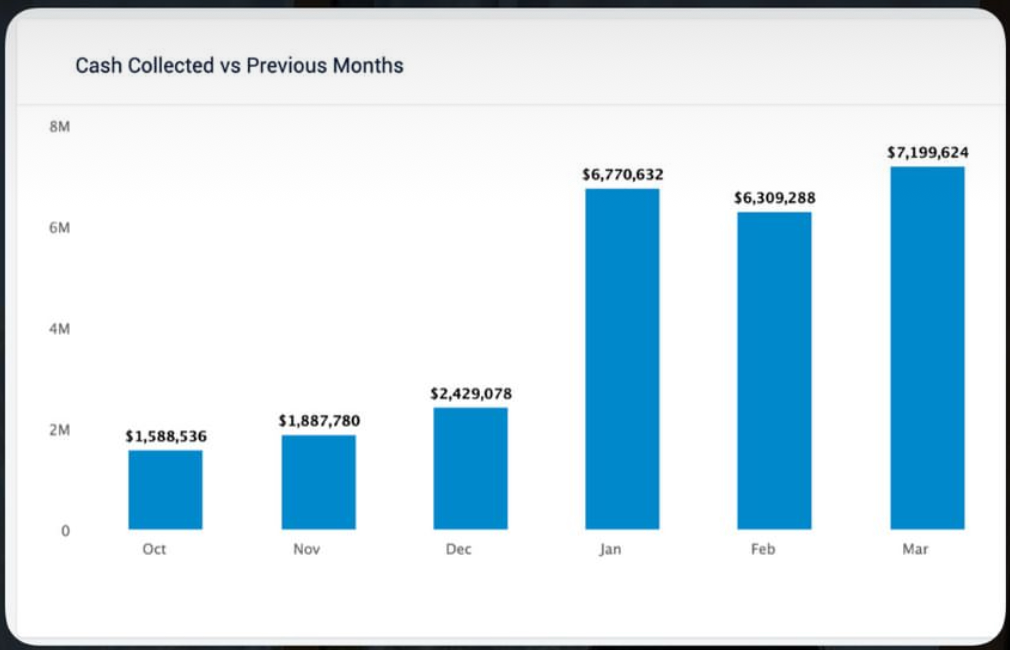
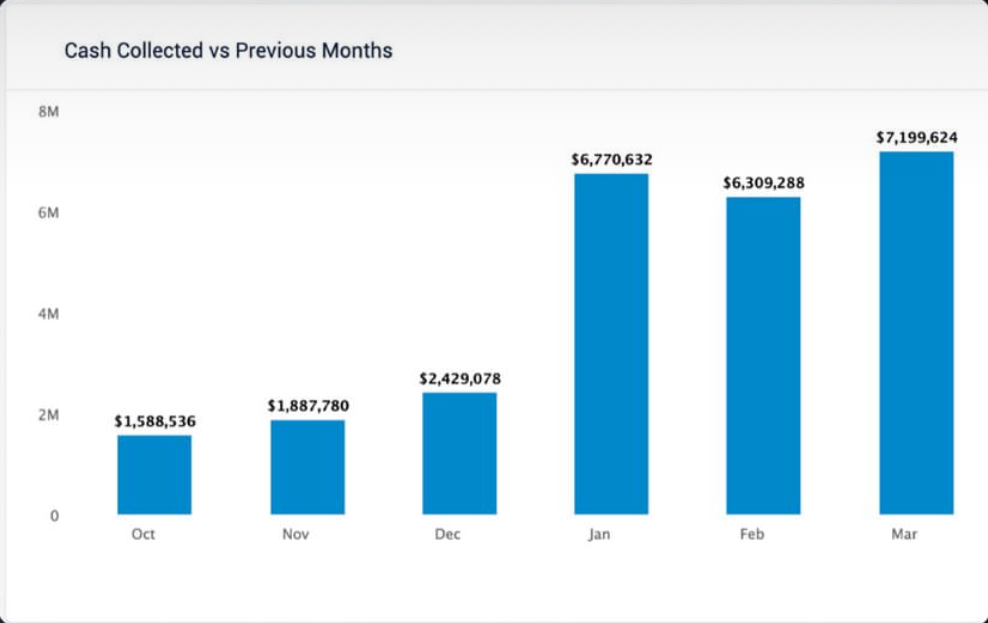
feat(stories): words under the card, clean red arrow, cards trimmed to the white panel
Antonio, Oct 15: keep the arrows, move the words, and the card border looked weird.
- Proof cards are trimmed to their light panel (the dark Story edge from the Highlight crops is gone).
- Words sit right under the card on proof frames and in the upper third on photo frames.
- One curved red arrow with a real arrowhead from beside the words to the card's result column.
- Card frames only use photos whose face is below 60% of the height, so text never crosses the face.

diff --git a/src/publishing/story-lifestyle.ts b/src/publishing/story-lifestyle.ts
@@ -12,7 +12,7 @@ import sharp, { type OverlayOptions } from 'sharp';
 
 export interface PoolPhoto { file: string; sha256: string; faceTop?: number | null; t?: number }
 /** Under a proof card at the top, only photos with the face low (or not visible) keep the face clear. */
-export const cardSafe = (p: PoolPhoto) => p.faceTop == null || p.faceTop > 0.5;
+export const cardSafe = (p: PoolPhoto) => p.faceTop == null || p.faceTop > 0.6;
 const W = 1080, H = 1920, IMAGE = /\.(jpe?g|png|heic)$/i;
 
 export function loadPhotoPool(file = 'docs/stories/photo-pool.json'): PoolPhoto[] {
@@ -136,18 +136,31 @@ export async function minimalFrame(source: PoolPhoto | Buffer, text: string, { c
     const bg = await sharp(raw, { failOn: 'none' }).rotate().resize(W, H, { fit: 'cover', position: 'attention' })
         .modulate({ saturation: 1.1, brightness: 1.06 }).toBuffer();
     const layers: OverlayOptions[] = [];
+    let cardBottom = 0;
     if (card) {
         const img = await sharp(card.file).resize(940, 600, { fit: 'inside' }).png().toBuffer(), m = await sharp(img).metadata();
         const r = 22, mask = Buffer.from(`<svg width="${m.width}" height="${m.height}"><rect width="${m.width}" height="${m.height}" rx="${r}" fill="#fff"/></svg>`);
         const rounded = await sharp(img).composite([{ input: mask, blend: 'dest-in' }]).png().toBuffer();
         const pad = 60, shadow = await sharp({ create: { width: m.width! + pad * 2, height: m.height! + pad * 2, channels: 4, background: { r: 0, g: 0, b: 0, alpha: 0 } } })
             .composite([{ input: Buffer.from(`<svg width="${m.width! + pad * 2}" height="${m.height! + pad * 2}"><rect x="${pad}" y="${pad + 14}" width="${m.width}" height="${m.height}" rx="${r}" fill="#000" opacity="0.45"/></svg>`) }]).blur(24).png().toBuffer();
-        const left = Math.round((W - m.width!) / 2), top = 260;
+        const left = Math.round((W - m.width!) / 2), top = 240;
         layers.push({ input: shadow, left: left - pad, top: top - pad }, { input: rounded, left, top });
+        cardBottom = top + m.height!;
     }
-    const lines = wrapLines(text, 28).slice(0, 2), size = 58, base = H - 520;
+    // Words sit right under the card on proof frames (as in the Highlights), and in the upper third otherwise.
+    const lines = wrapLines(text, 26).slice(0, 2), size = 60, base = cardBottom ? cardBottom + 190 : 380;
+    // One clean red arrow from beside the words up to the card's right edge.
+    const arrowSvg = cardBottom ? (() => {
+        // Curved arrow: tail beside the words, tip just under the card's right column (where the result is).
+        const tx = W - 210, ty = cardBottom + 18, sx = W - 95, sy = base - size * 0.35, cx = W - 70, cy = (ty + sy) / 2 - 20;
+        const dx = tx - cx, dy = ty - cy, len = Math.hypot(dx, dy), ux = dx / len, uy = dy / len, head = 46;
+        const wing = (deg: number) => { const r = deg * Math.PI / 180, c = Math.cos(r), sn = Math.sin(r);
+            return `L ${(tx - head * (ux * c - uy * sn)).toFixed(1)} ${(ty - head * (ux * sn + uy * c)).toFixed(1)}`; };
+        return `<g fill="none" stroke="#FF3B30" stroke-width="12" stroke-linecap="round" stroke-linejoin="round" filter="url(#s)">`
+            + `<path d="M ${sx} ${sy} Q ${cx} ${cy} ${tx} ${ty}"/><path d="M ${tx} ${ty} ${wing(32)} M ${tx} ${ty} ${wing(-32)}"/></g>`;
+    })() : '';
     const svg = `<svg width="${W}" height="${H}" xmlns="http://www.w3.org/2000/svg"><defs><filter id="s" x="-20%" y="-50%" width="140%" height="200%"><feDropShadow dx="0" dy="3" stdDeviation="9" flood-color="#000" flood-opacity="0.55"/></filter></defs>`
-        + lines.map((l, i) => `<text x="${W / 2}" y="${base + i * size * 1.22}" font-family="SF Pro Display, Helvetica Neue, Helvetica, Arial" font-weight="600" font-size="${size}" text-anchor="middle" fill="#fff" filter="url(#s)">${esc(l)}</text>`).join('') + '</svg>';
+        + arrowSvg + lines.map((l, i) => `<text x="${W / 2}" y="${base + i * size * 1.22}" font-family="SF Pro Display, Helvetica Neue, Helvetica, Arial" font-weight="700" font-size="${size}" text-anchor="middle" fill="#fff" filter="url(#s)">${esc(l)}</text>`).join('') + '</svg>';
     layers.push({ input: Buffer.from(svg) });
     return sharp(bg).composite(layers).removeAlpha().png().toBuffer();
 }
